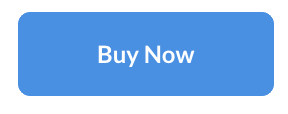
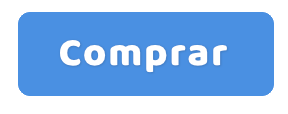
fix and button

Changed region(s): [[0.1875, 0.3421, 0.8125, 0.6316]]

diff --git a/_includes/services_table.html b/_includes/services_table.html
@@ -18,7 +18,7 @@
                                         <li>Valid mobi book</li>
                                     </ul>
                                 
-                                <a class="btn btn--primary" href="{{url}}/services/indie-pack#request">
+                                <a class="btn btn--primary" href="{{url}}/servicios/indie-pack#request">
                                     <span class="btn__text">
                                         Solicitar Servicio
                                     </span>
@@ -43,7 +43,7 @@
                                         <li>Support</li>
                                     </ul>
                                 
-                                <a class="btn btn--primary-1" href="{{url}}/services/bestseller-pack#request">
+                                <a class="btn btn--primary-1" href="{{url}}/servicios/bestseller-pack#request">
                                     <span class="btn__text">
                                         Solicitar Servicio
                                     </span>

diff --git a/_includes/paypal.html b/_includes/paypal.html
@@ -2,7 +2,7 @@
 <input type="hidden" name="cmd" value="_s-xclick">
 <input type="hidden" name="hosted_button_id" value="{{ page.hosted_button_id }}">
 <p class="text-center" style="padding:0; margin:0;">
-    <input type="image" src="http://fabro.co/img/buy-now.png" border="0" name="submit" alt="PayPal - The safer, easier way to pay online!" style="width:200px; height:79px;" >
+    <input type="image" src="http://fabro.com.mx/img/buy-now.png" border="0" name="submit" alt="PayPal - The safer, easier way to pay online!" style="width:200px; height:79px;" >
 </p>
 <img alt="" border="0" src="https://www.paypalobjects.com/es_XC/i/scr/pixel.gif" width="1" height="1">
 </form>
